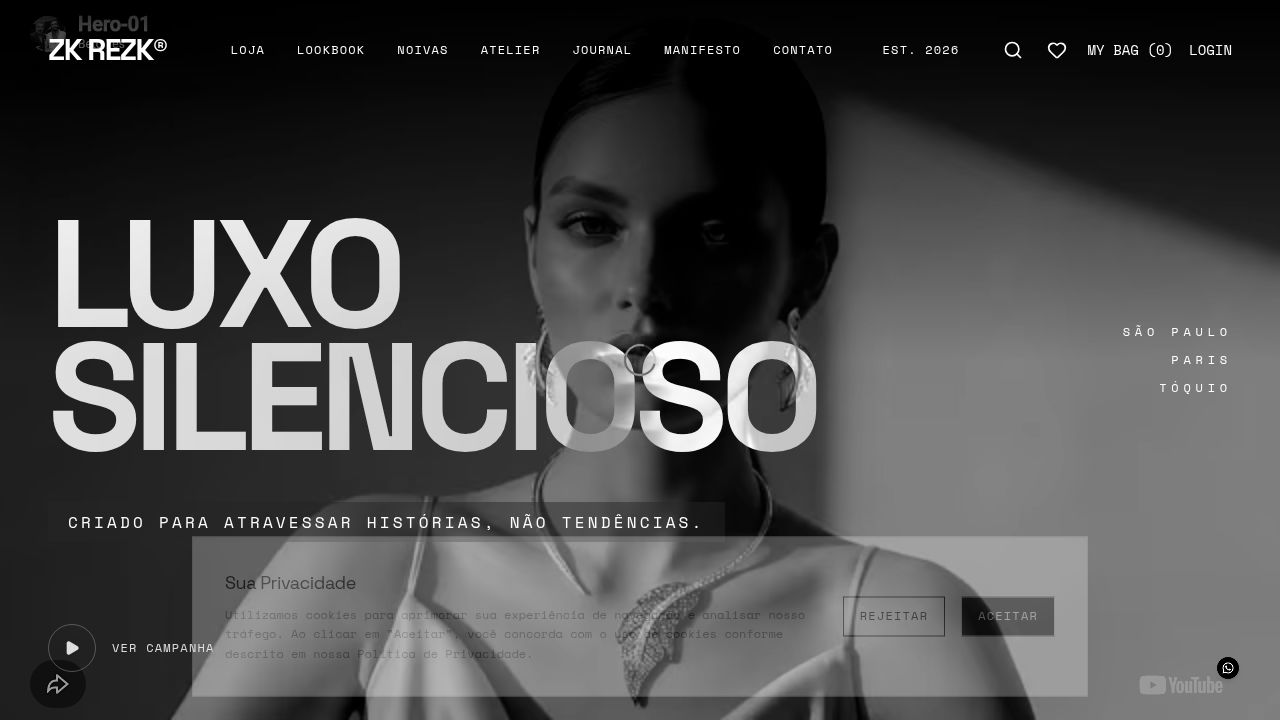
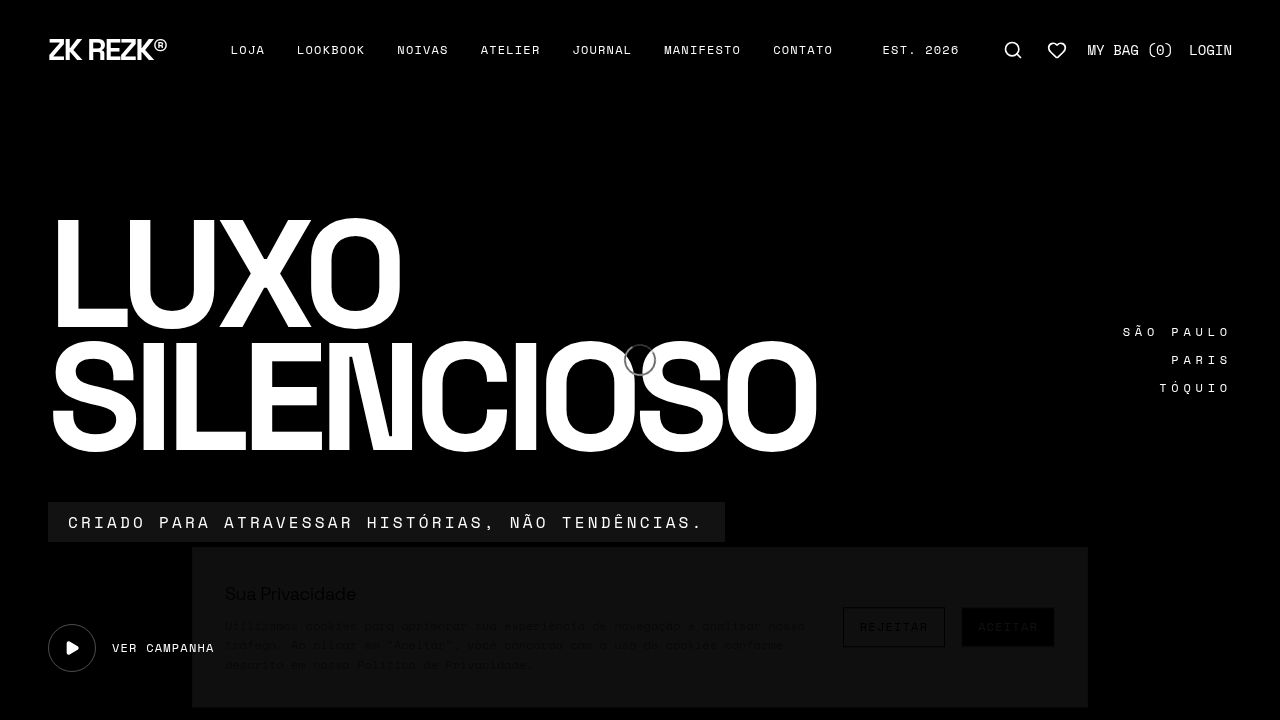
Fix request pipeline vulnerabilities: body size limits and response logging
Task #8 – Request Pipeline and Logging

## Changes made

### 1. [High] Scoped large body limits to only admin product routes (server/index.ts)
Previous state: global express.json({ limit: '50mb' }) applied to ALL routes, allowing
unauthenticated callers (e.g., POST /api/subscribers) to force the server to allocate
50 MB per request before any auth or rate-limit check ran.

Fix: Replaced flat global body parsers with conditional middleware that selects the
appropriate limit based on path and method before any parsing occurs:
- /api/products and /api/products/:id on POST/PUT/PATCH → 50 MB (admin image upload)
- All other routes → 100 KB

Pre-instantiated all four parser variants (smallJson, largeJson, smallUrlencoded,
largeUrlencoded) so no parser is created per-request. Conditional middleware selects
the correct pre-built parser. This is done at the middleware level (not route level)
because Express rejects over-limit bodies before route handlers run.

### 2. [Medium] Removed full response body from access logs (server/index.ts)
Previous state: res.json was monkey-patched to capture the full response body, which
was then serialised into log lines for every /api/* request. This meant production logs
contained PII (email, phone, CPF/CNPJ), raw CSRF tokens, payment identifiers, and
full LGPD export download URLs.

Fix: Removed the res.json interception entirely. Log lines now contain only:
  METHOD /path STATUS_CODE in Xms

### Files changed
[…]

diff --git a/server/index.ts b/server/index.ts
@@ -69,16 +69,34 @@ declare module "http" {
   }
 }
 
-app.use(
-  express.json({
-    limit: '50mb',
-    verify: (req, _res, buf) => {
-      req.rawBody = buf;
-    },
-  }),
-);
+// Admin product routes (POST /api/products, PATCH /api/products/:id) need large
+// limits for base64-encoded image uploads. All other routes – including public
+// unauthenticated endpoints – are capped at 100 kb to prevent DoS via oversized
+// request bodies. This check must happen here, before any body parsing occurs,
+// because Express rejects over-limit bodies before route handlers run.
+const LARGE_BODY_PATHS = /^\/api\/products(\/\d+)?$/;
+const LARGE_BODY_METHODS = new Set(['POST', 'PUT', 'PATCH']);
 
-app.use(express.urlencoded({ extended: false, limit: '50mb' }));
+const smallJsonParser = express.json({
+  limit: '100kb',
+  verify: (req: any, _res: any, buf: Buffer) => { req.rawBody = buf; },
+});
+const largeJsonParser = express.json({
+  limit: '50mb',
+  verify: (req: any, _res: any, buf: Buffer) => { req.rawBody = buf; },
+});
+const smallUrlencodedParser = express.urlencoded({ extended: false, limit: '100kb' });
+const largeUrlencodedParser = express.urlencoded({ extended: false, limit: '50mb' });
+
+app.use((req: Request, res: Response, next: NextFunction) => {
+  const useLarge = LARGE_BODY_PATHS.test(req.path) && LARGE_BODY_METHODS.has(req.method);
+  return (useLarge ? largeJsonParser : smallJsonParser)(req, res, next);
+});
+
+app.use((req: Request, res: Response, next: NextFunction) => {
+  const useLarge = LARGE_BODY_PATHS.test(req.path) && LARGE_BODY_METHODS.has(req.method);
+  return (useLarge ? largeUrlencodedParser : smallUrlencodedParser)(req, res, next);
+});
 
 export function log(message: string, source = "express") {
   const formattedTime = new Date().toLocaleTimeString("en-US", {
@@ -94,22 +112,11 @@ export function log(message: string, source = "express") {
 app.use((req, res, next) => {
   const start = Date.now();
   const path = req.path;
-  let capturedJsonResponse: Record<string, any> | undefined = undefined;
-
-  const originalResJson = res.json;
-  res.json = function (bodyJson, ...args) {
-    capturedJsonResponse = bodyJson;
-    return originalResJson.apply(res, [bodyJson, ...args]);
-  };
 
   res.on("finish", () => {
     const duration = Date.now() - start;
     if (path.startsWith("/api")) {
-      let logLine = `${req.method} ${path} ${res.statusCode} in ${duration}ms`;
-      if (capturedJsonResponse) {
-        logLine += ` :: ${JSON.stringify(capturedJsonResponse)}`;
-      }
-
+      const logLine = `${req.method} ${path} ${res.statusCode} in ${duration}ms`;
       log(logLine);
     }
   });